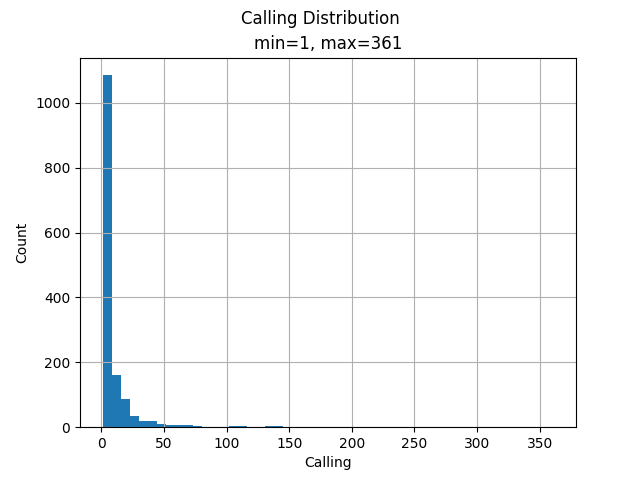
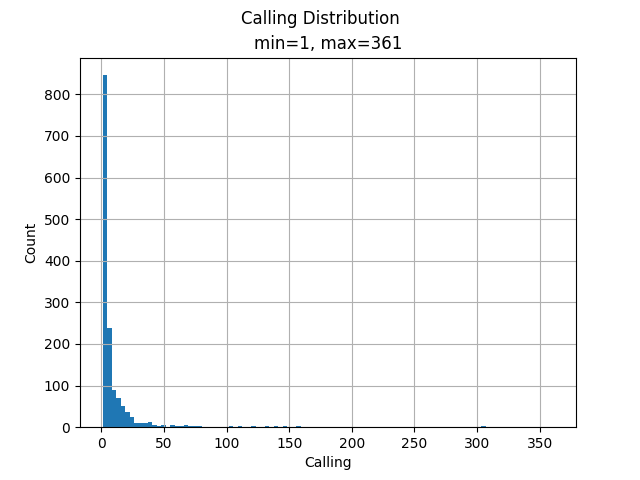
add testnetworkx

diff --git a/src/starter_main.py b/src/starter_main.py
@@ -11,7 +11,7 @@ g = a.Graphs(PATH)
 a.plot_histogram(g, ["Called By", "Calling"], [
     os.path.join(RESULTS, "called_by_hist.png"),
     os.path.join(RESULTS, "calling_hist.png")
-])
+], nbins=100)
 a.plot_degree_matrix(g, [
     os.path.join(RESULTS, "called_by_degree_matrix.png"),
     os.path.join(RESULTS, "calling_degree_matrix.png")
